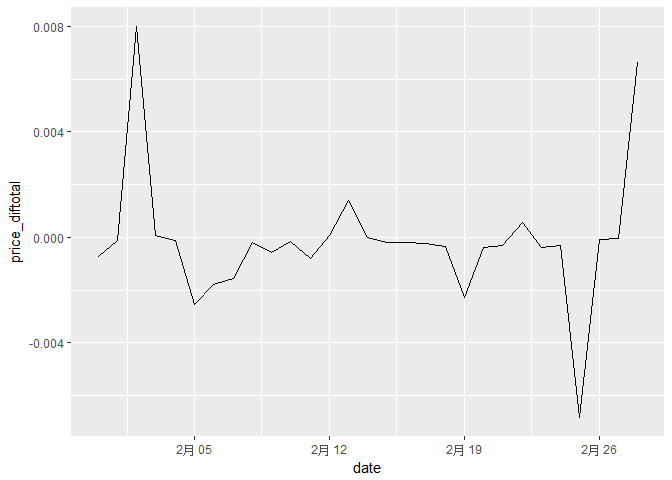
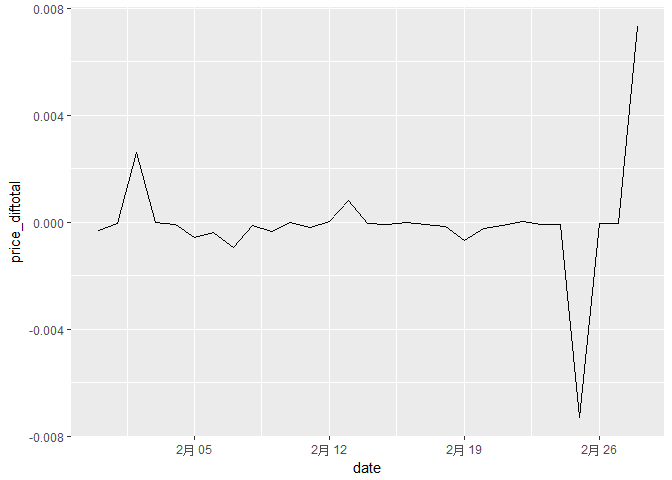
some change

diff --git a/users/EugeneHao/DMC_test.md b/users/EugeneHao/DMC_test.md
@@ -587,8 +587,8 @@ change from 2017-10-1 to 2018-1-31.
                                category_changePrice[,2]/apply(category_changePrice,1,sum))
     category_changePrice<-category_changePrice[order(category_changePrice[,3],decreasing = T),]
 
-    price_dif2<-price_dif/items$rrp
-    price_diftotal<-as.vector(apply(price_dif2,MARGIN=2,mean))
+    price_dif2<-price_dif[order(prices$pid),]/items$rrp
+    price_diftotal<-as.vector(apply(price_dif2,MARGIN=2,mean,na.rm=T))
     date=ymd(strtrim(seq(ISOdate(2017,10,2), ISOdate(2018,2,28), "DSTday"),10))
     d_pricediftotal<-data.frame(date,price_diftotal)
     ggplot(data=d_pricediftotal,aes(x=date,y=price_diftotal))+geom_line()
@@ -629,8 +629,8 @@ by category and found that the price changed with regularity per week.
 Besides we can also find that different category has different discount.
 The category 7, 16, 24, 33 have big discount where 16, 24, 33 belong to
 mainCategory 15 and 7 belongs to mainCategory 1. Category 2, 10, 18, 36,
-37 have small discount where 10, 18, 36, 37 belong to mainCategory 9
-and 37 and 2 belongs to mainCategory 1.
+37 have small discount where 10, 18, 36, 37 belong to mainCategory 9 and
+37 and 2 belongs to mainCategory 1.
 
     table(items$category,items$mainCategory) %>% pander
 
